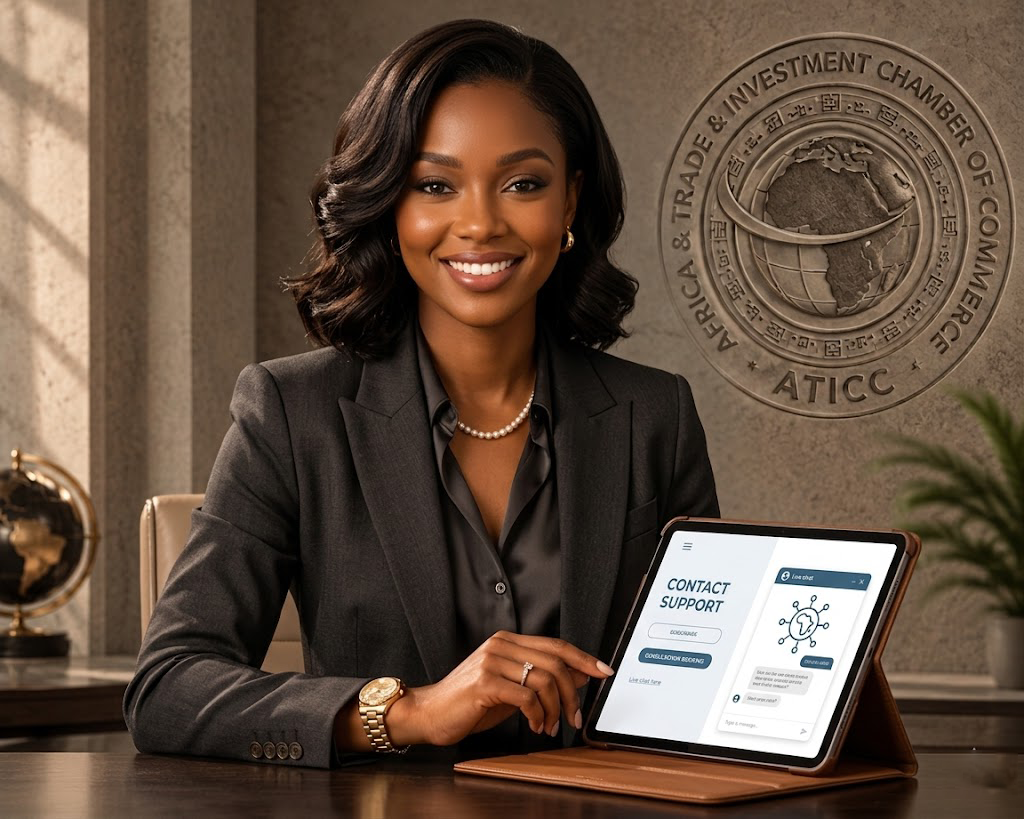
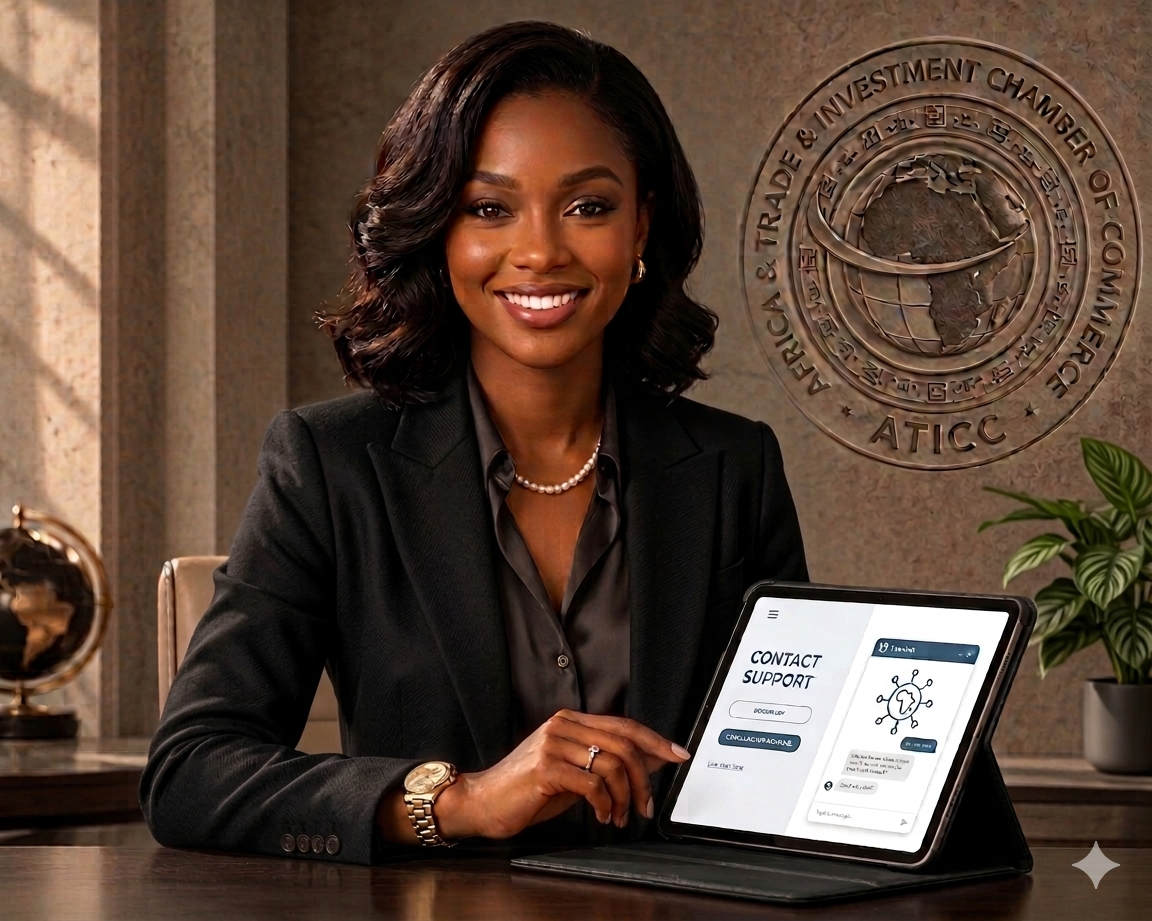
update

diff --git a/resources/views/emails/contact.blade.php b/resources/views/emails/contact.blade.php
@@ -6,7 +6,7 @@
 <body style="font-family: Arial, sans-serif; line-height: 1.6; color: #333;">
     <div style="max-width: 600px; margin: 0 auto; padding: 20px;">
         <div style="text-align: center; margin-bottom: 30px;">
-            <img src="{{ asset('assets/images/logo.png') }}" alt="ATICC Logo" style="max-width: 180px;">
+            <img src="{{ asset('assets/images/ATICC FINAL LOGO  (2).png') }}" alt="ATICC Logo" style="max-width: 180px;">
         </div>
         
         <h2 style="color: #041931;">New Contact Form Submission</h2>